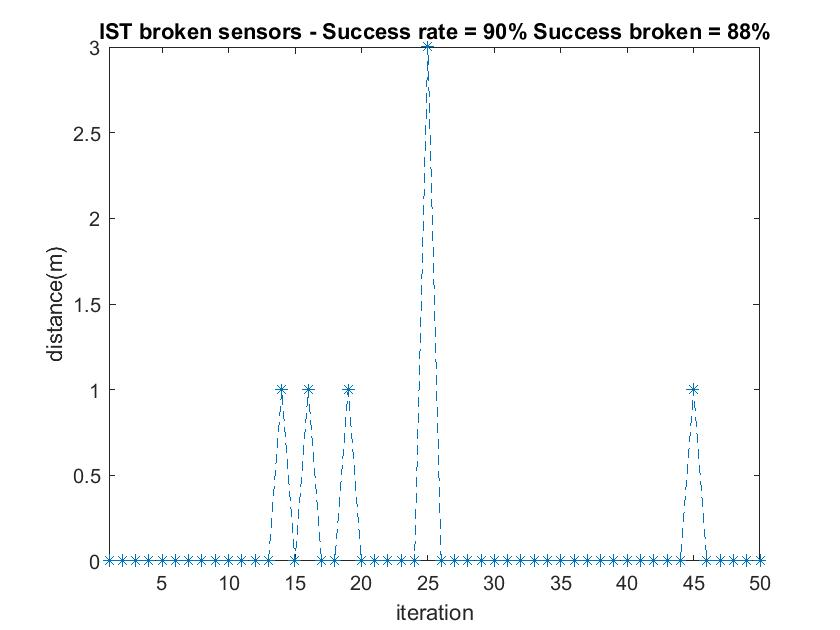
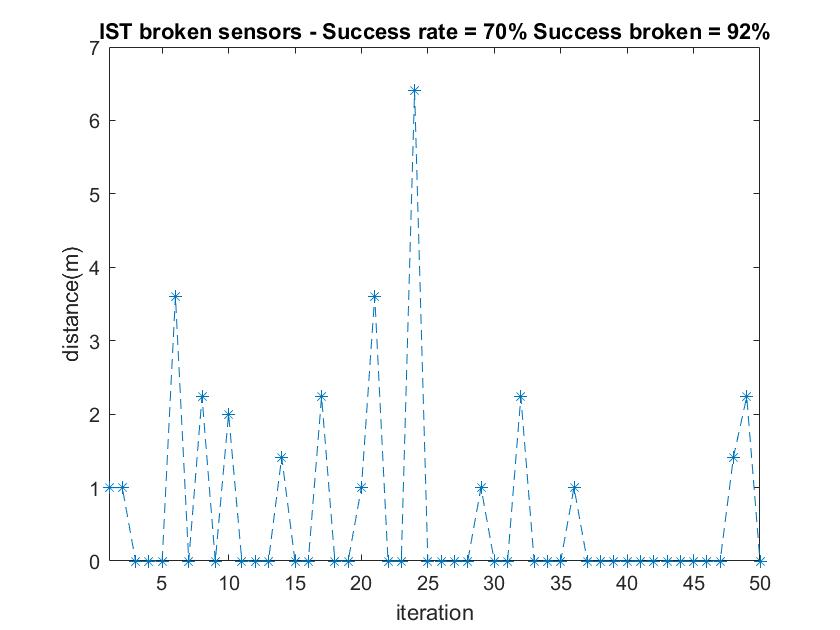
foto

diff --git a/extension_4_broken_sensor.m b/extension_4_broken_sensor.m
@@ -13,7 +13,7 @@ ni=50;
 lam = 1e-4;
 tau = 0.7;
 th = 0.5;
-max_iter = 1e4;
+max_iter = 1e5;
 dist=zeros(ni, 1);
 success_brok=0;
 success=0;
@@ -32,7 +32,7 @@ for i=1:50
     
     d = vecnorm(([xm,ym]-[xs(:),ys(:)])')';
     y = get_rss(Pt,dev_std,d);
-    y(broken_sensor+1)=y(broken_sensor+1)+20*rand(1);
+    y(broken_sensor+1)=y(broken_sensor+1)+100*rand(1);
     
     B=[A, eye(n)];
     u=zeros(n, 1);
@@ -49,23 +49,17 @@ for i=1:50
     
     xt_0 = zeros(p,1);
     
-    zt=[xt_0; u];
+    zt_0=[xt_0; u];
     
     for j=1:max_iter
-        zt = zt-tau*(Bp'*(Bp*zt-yp));
-        for k=1:p
-            if abs(zt(k))<lam
-                zt(k)=0;
-            else
-                zt(k)=zt(k)-lam*sign(zt(k));
-            end
-        end
+        zt = soft_tresh(zt_0+tau.*(Bp'*(yp-Bp*zt_0)), lam);        
         xt=zt(1:p);
         u=zt(p+1:end);
         xt(find(xt>1))=1;
         xt(find(xt<0))=0;
-        zt=[xt;u];
+        zt_0=[xt;u];
     end
+
     [~, p_cell] = max(xt);
     [~, p_broken(1)] = max(abs(u));
     u(p_broken(1))=0;

diff --git a/build_data.m b/build_data.m
@@ -35,7 +35,7 @@ make_grid(xc,yc,xs,ys,l_room)
 %% Build A
 Pt = 25;
 dev_std = 0.5;
-var = 0.5^2;
+var = dev_std^2;
 
 A = zeros(n,p);
 for k = 1:p
